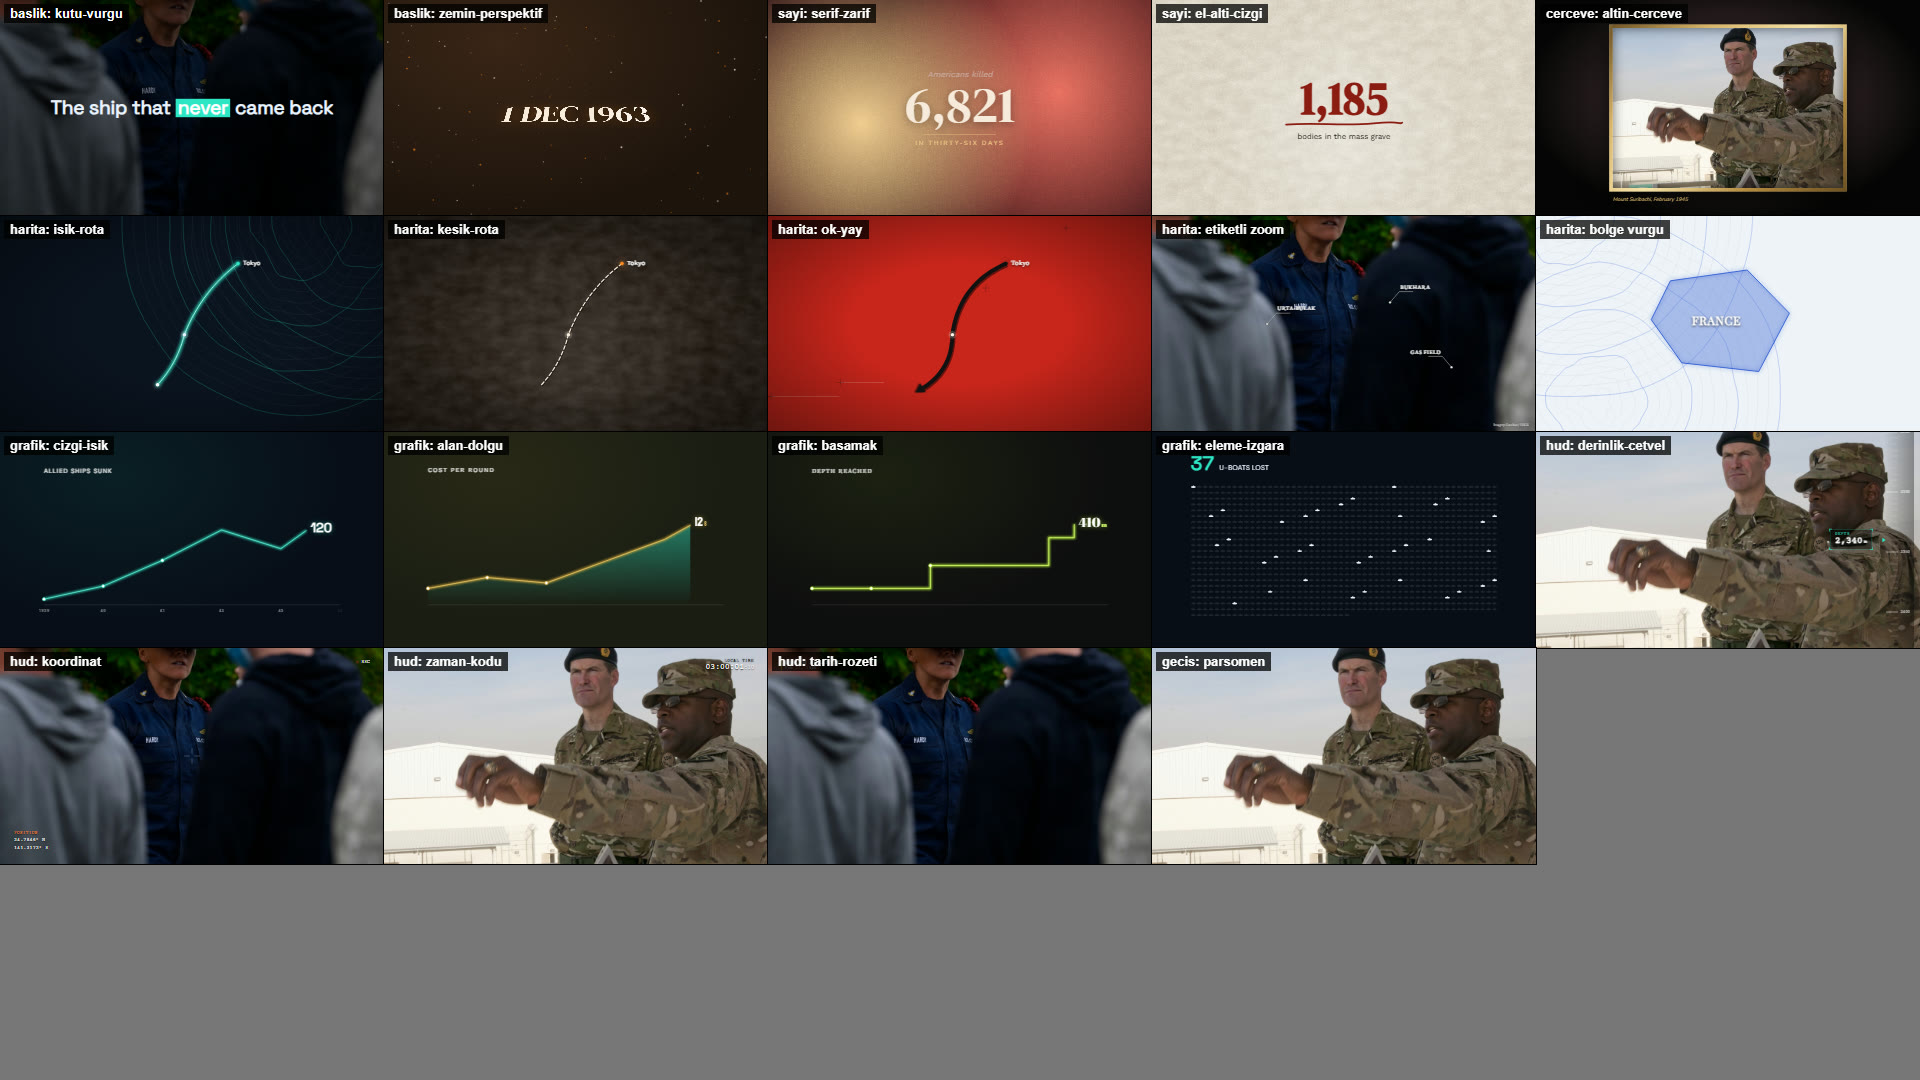
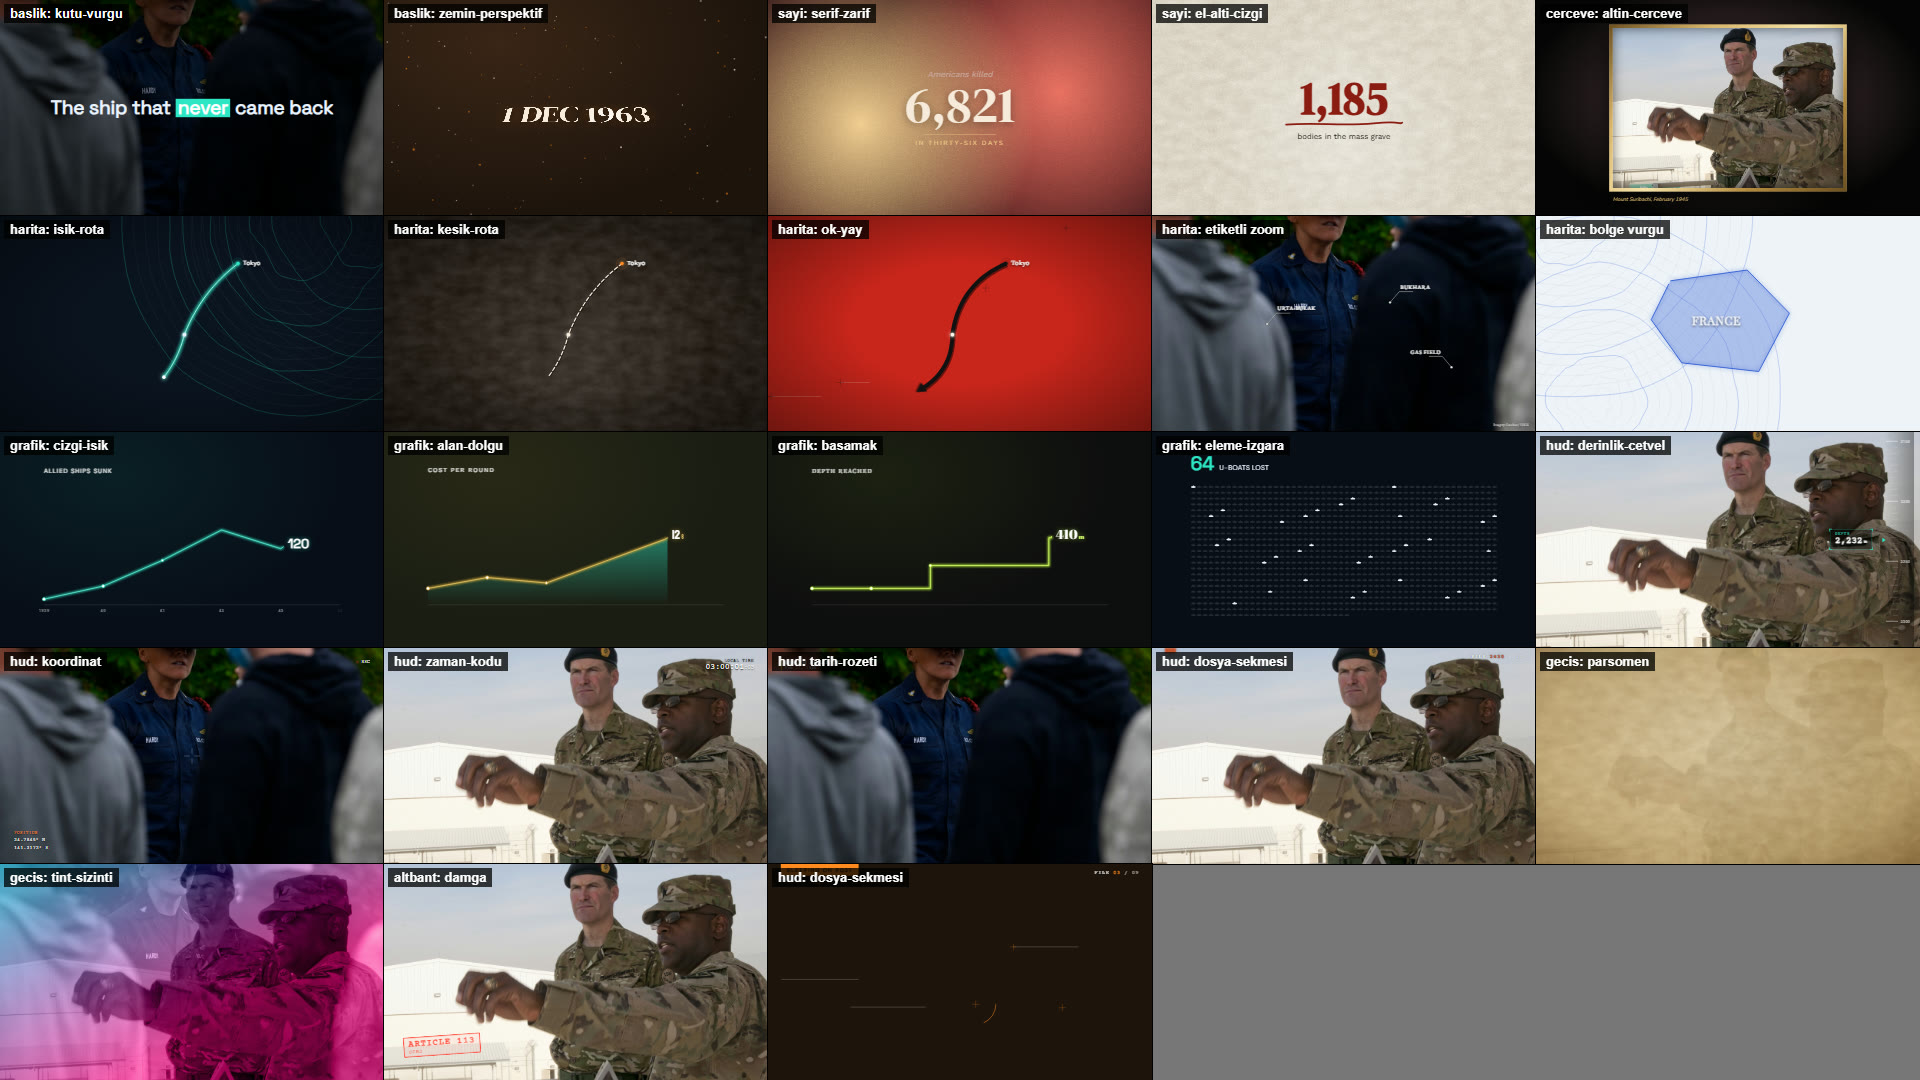
Son 4 kanaldan: tint-sizinti gecis, damga alt bant, dosya-sekmesi HUD; repertuar.md kullanim
Kaynak: @diearbeiterjahreyt, @TactCoreYT (+ @Ethos-j7t, @AchterdeMotorkap mevcut esdegerlere kaynak etiketi)
- repertuar.md: harita/grafik/HUD tablo satirlari, VideoNN ornegi, kanal ekleme akisi (§5)

diff --git a/repertuar/Kart.tsx b/repertuar/Kart.tsx
@@ -6,7 +6,7 @@ import { FONTLAR, Stil, egri, ilerle, karistir, rgba, sinirla } from './temel';
 // stil_dna kanal basina her kart turu icin BIR varyant kilitler (kanal imzasi), rakibinkinden farkli olani.
 
 // ---------- ALT BANT (isim / yer / tarih etiketi) ----------
-export const ALTBANT_TIPLERI = ['cizgi-acilis', 'blok-kayma', 'cip-etiket', 'koseli-parantez', 'cam-panel'] as const;
+export const ALTBANT_TIPLERI = ['cizgi-acilis', 'blok-kayma', 'cip-etiket', 'koseli-parantez', 'cam-panel', 'damga'] as const;
 export type AltBantTip = typeof ALTBANT_TIPLERI[number];
 /** medyaUstu (varsayilan): video/foto ustunde -> acik yazi + golge; false: Arkaplan ustunde -> palet murekkebi */
 export const AltBant: React.FC<{ tip: AltBantTip; ust: string; alt?: string; stil: Stil; sag?: boolean; medyaUstu?: boolean }> = ({ tip, ust, alt, stil, sag, medyaUstu = true }) => {
@@ -51,6 +51,20 @@ export const AltBant: React.FC<{ tip: AltBantTip; ust: string; alt?: string; sti
           <div style={{ position: 'absolute', right: 0, bottom: 0, width: k, height: k, borderRight: c, borderBottom: c, transform: `translate(${(1 - p) * -40}px, ${(1 - p) * -20}px)` }} />
           <div style={{ ...ustSt, fontFamily: font.mono, fontSize: 44, opacity: q }}>{U}</div>
           {alt ? <div style={{ ...altSt, fontFamily: font.mono, opacity: q }}>{alt}</div> : null}
+        </div>
+      );
+    }
+    case 'damga': {
+      // hafif egik kirmizi cerceveli damga (@TactCoreYT): basilir gibi buyukten oturur, kenarda murekkep puruzu
+      const d = ilerle(f, 0, fps * 0.25, 'ustel-sert');
+      const kirmizi = palet.acik ? '#b3261e' : '#ff4b3e';
+      return (
+        <div style={{ ...yer, transform: `rotate(-4deg) scale(${1.6 - 0.6 * d})`, opacity: sinirla(d * 2), transformOrigin: sag ? 'right bottom' : 'left bottom' }}>
+          <div style={{ border: `5px solid ${kirmizi}`, borderRadius: 6, padding: '8px 22px', boxShadow: `inset 0 0 0 2px ${rgba(kirmizi, 0.35)}`, background: rgba(kirmizi, 0.06),
+            WebkitMaskImage: 'radial-gradient(circle at 30% 40%, #000 60%, rgba(0,0,0,.75) 75%, #000 90%)' }}>
+            <div style={{ fontFamily: font.mono, fontWeight: 700, fontSize: 44, letterSpacing: 4, color: kirmizi, textTransform: 'uppercase' }}>{U}</div>
+            {alt ? <div style={{ fontFamily: font.mono, fontSize: 24, letterSpacing: 3, color: kirmizi, opacity: 0.85, textTransform: 'uppercase' }}>{alt}</div> : null}
+          </div>
         </div>
       );
     }

diff --git a/repertuar/Hud.tsx b/repertuar/Hud.tsx
@@ -5,7 +5,7 @@ import { Stil, egri, ilerle, rgba, sinirla } from './temel';
 // HUD — medyanin USTUNE binen kalici bilgi katmanlari (saydam). Ogrenildigi kanallar: @Ground-Engineering (kamerayla senkron
 // derinlik sayaci), @ImmersivePast (sag kenarda derinlik cetveli + sol ustte guncellenen tarih/yer rozeti).
 // Deger animasyonu: baslangic -> deger, 'sure' saniyede (kamera hareketiyle es zamanli kullanilir).
-export const HUD_TIPLERI = ['derinlik-cetvel', 'koordinat', 'zaman-kodu', 'tarih-rozeti'] as const;
+export const HUD_TIPLERI = ['derinlik-cetvel', 'koordinat', 'zaman-kodu', 'tarih-rozeti', 'dosya-sekmesi'] as const;
 export type HudTip = typeof HUD_TIPLERI[number];
 
 const kose = (renk: string, k = 22, c = 3): React.CSSProperties[] => [
@@ -88,6 +88,20 @@ export const Hud: React.FC<{ tip: HudTip; stil: Stil; deger?: number; baslangic?
             <div style={{ color: renk, fontSize: 18, letterSpacing: 4 }}>{(etiket || 'LOCAL TIME').toUpperCase()}</div>
             <div style={{ fontSize: 40 }}>{z(hh)}:{z(mm)}:{z(ss)}<span style={{ opacity: 0.6, fontSize: 28 }}>:{z(kk)}</span></div>
             {ust ? <div style={{ fontSize: 20, opacity: 0.8, marginTop: 4 }}>{ust}</div> : null}
+          </div>
+        </AbsoluteFill>
+      );
+    }
+    case 'dosya-sekmesi': {
+      // ust kenarda vurgu renkli baslik sekmesi + sag ustte 'FILE 03 / 09' sayaci (@TactCoreYT); deger = bu dosya, baslangic = toplam
+      const k = ilerle(f, gec, fps * 0.35, 'ustel-sert');
+      const z = (n: number) => String(Math.max(0, Math.round(n))).padStart(2, '0');
+      return (
+        <AbsoluteFill style={{ pointerEvents: 'none' }}>
+          <div style={{ position: 'absolute', left: 64, top: 0, padding: '14px 28px 12px', background: renk, color: palet.acik ? '#ffffff' : palet.zemin, transform: `translateY(${(k - 1) * 100}%)`,
+            fontFamily: font.govde, fontWeight: 800, fontSize: 28, letterSpacing: 4, textTransform: 'uppercase', borderRadius: '0 0 10px 10px', boxShadow: `0 8px 24px ${rgba('#000', 0.35)}` }}>{etiket}</div>
+          <div style={{ position: 'absolute', right: 64, top: 30, ...yazi, fontSize: 26, letterSpacing: 3, opacity: k }}>
+            FILE <span style={{ color: renk, fontWeight: 700 }}>{z(deger)}</span><span style={{ opacity: 0.6 }}> / {z(baslangic)}</span>
           </div>
         </AbsoluteFill>
       );

diff --git a/repertuar/Gecis.tsx b/repertuar/Gecis.tsx
@@ -6,7 +6,7 @@ import { HareketAd, Stil, egri, rastgele, rgba, sinirla } from './temel';
 // Iskelet kurali: gecis SURESI rakibin yumusak gecis medyanindan, SIKLIGI rakibin yumusak gecis oranindan gelir (stil_dna.py).
 export const GECIS_TIPLERI = [
   'sert', 'cozunme', 'bulaniklik', 'isik-patlamasi', 'glitch-rgb', 'whip-sol', 'whip-yukari', 'kaydirma-itme',
-  'maske-daire', 'maske-capraz', 'maske-seritler', 'zoom-darbe', 'film-yanigi', 'kart-cevirme', 'tv-kapanma', 'perde', 'parsomen',
+  'maske-daire', 'maske-capraz', 'maske-seritler', 'zoom-darbe', 'film-yanigi', 'kart-cevirme', 'tv-kapanma', 'perde', 'parsomen', 'tint-sizinti',
 ] as const;
 /** 'filmburn:fb-03:1.4' = varlik/filmburn/fb-03.mp4, en parlak an 1.4 sn: kesim tam o ana denk gelir */
 export type GecisTip = typeof GECIS_TIPLERI[number] | `filmburn:${string}`;
@@ -63,6 +63,17 @@ const GecisUstKatman: React.FC<{ tip: GecisTip; p: number; stil: Stil }> = ({ ti
       <AbsoluteFill style={{ mixBlendMode: 'screen' }}>
         <div style={{ position: 'absolute', left: -600 + p * (W + 600), top: -200, width: 1100, height: H + 400, borderRadius: '50%', background: `radial-gradient(ellipse, ${rgba('#ffd08a', a)} 0%, ${rgba(stil.palet.vurgu, a * 0.8)} 40%, transparent 70%)`, filter: 'blur(60px)' }} />
         <AbsoluteFill style={{ background: rgba('#ff9a3c', a * 0.25) }} />
+      </AbsoluteFill>
+    );
+  }
+  if (tip === 'tint-sizinti') {
+    // renk tonu rampasi (@diearbeiterjahreyt): kesimde ekran once vurgu2 (soguk), sonra vurgu (sicak) tonuna boyanir, 280 ms
+    const a = Math.sin(p * Math.PI);
+    const renk = p < 0.5 ? stil.palet.vurgu2 : stil.palet.vurgu;
+    return (
+      <AbsoluteFill style={{ mixBlendMode: 'color', opacity: Math.min(1, a * 1.4) }}>
+        <AbsoluteFill style={{ background: `linear-gradient(${120 + p * 60}deg, ${rgba(stil.palet.vurgu2, 0.95)} ${-40 + p * 80}%, ${rgba(stil.palet.vurgu, 0.95)} ${20 + p * 90}%)` }} />
+        <AbsoluteFill style={{ background: rgba(renk, 0.25 * a), mixBlendMode: 'screen' }} />
       </AbsoluteFill>
     );
   }

diff --git a/sablon-proje/src/Root.tsx b/sablon-proje/src/Root.tsx
@@ -90,6 +90,9 @@ const KatYeni: React.FC = () => (
     { ad: 'grafik: eleme-izgara', el: <ElemeIzgara stil={st(12)} asamalar={[1171, 36, 2]} etiketler={['U-boats lost', 'near New Jersey', 'candidates']} ikon="denizalti" asamaSn={1.2} /> },
     ...HUD_TIPLERI.map((h, i) => ({ ad: 'hud: ' + h, el: <AbsoluteFill><Medya m={i % 2 ? A : B} /><Hud tip={h} stil={st(12 + i)} deger={h === 'koordinat' ? 24.7841 : h === 'zaman-kodu' ? 1 : 2430} baslangic={h === 'koordinat' ? 141.3168 : h === 'zaman-kodu' ? 3 * 3600 : 0} birim="m" etiket={h === 'tarih-rozeti' ? 'North Atlantic' : ''} ust={h === 'tarih-rozeti' ? 'Feb 11, 1945' : ''} sure={2} /></AbsoluteFill> })),
     { ad: 'gecis: parsomen', el: <GecisliDizi stil={st(1)} gecis="parsomen" kare={24} sahneler={[{ el: <Medya m={A} />, sure: 40 }, { el: <Medya m={B} />, sure: 40 }]} /> },
+    { ad: 'gecis: tint-sizinti', el: <GecisliDizi stil={st(6)} gecis="tint-sizinti" kare={12} sahneler={[{ el: <Medya m={A} />, sure: 40 }, { el: <Medya m={B} />, sure: 40 }]} /> },
+    { ad: 'altbant: damga', el: <AbsoluteFill><Medya m={B} /><AltBant tip="damga" ust="Article 113" alt="UCMJ" stil={st(12)} /></AbsoluteFill> },
+    { ad: 'hud: dosya-sekmesi', el: <AbsoluteFill><Arkaplan tip="blueprint" stil={st(13)} /><Hud tip="dosya-sekmesi" stil={st(13)} etiket="Sleeping on post" deger={3} baslangic={9} /></AbsoluteFill> },
   ]} />
 );
 const KatPreset: React.FC = () => {

diff --git a/skill/youtube-video-uretim/references/repertuar.md b/skill/youtube-video-uretim/references/repertuar.md
@@ -21,6 +21,9 @@ eksik teknik repertuara eklenir (bkz. §5).
 | Medya | `Medya.tsx` | kamera 10 (KB iç/dış, pan ×3, el kamerası, zoom darbe, dolly eğik, paralaks), çerçeve 11 (tam, inset gölge, bulanık kopya, polaroid, TV-CRT, letterbox, pencere, film şeridi, bölünmüş, kolaj, yuvarlak), doku 9 |
 | Stil | `temel.ts` | 16 palet (`gece-kirmizi` klasik, seçilmez), 12 font çifti, 7 hareket eğrisi |
 | **Bitiş (AE görünümü)** | `Bitis.tsx` | 6 post-prodüksiyon katmanı (sinema-film, temiz-dijital, arsiv-proje, neon-parilti, sicak-hale, soguk-belgesel): kamera nefesi (wiggle), kalkık siyahlar + split-tone grade, kayan ışık cepleri, gren, titreme, projektör sallantısı, bölüm geçişinde ışık süzülmesi. **Her video `DnaBitis` ile sarılır** — ham Remotion çıktısı "kod" gibi görünür |
+| Harita | `Harita.tsx` | rota 3 (isik-rota, kesik-rota, ok-yay) — `DnaHarita`; kılavuz etiketli zoom `DnaEtiketliHarita`; bölge/ülke vurgusu `DnaBolge`. Zemin: CC harita/uydu görseli (`zemin`), yoksa DNA'nın 3. arka planı. Koordinatlar ekran oranı (0..1) |
+| Grafik | `Grafik.tsx` | çizgi grafik 3 (cizgi-isik, alan-dolgu, basamak) — `DnaGrafik`; eleme ızgarası (1.171 → 36 → 2) `DnaEleme` |
+| HUD | `Hud.tsx` | medya üstü kalıcı katman 4 (derinlik-cetvel, koordinat, zaman-kodu, tarih-rozeti) — `DnaHud`; değer kamera hareketiyle eş zamanlı akar |
 | Öğrenilmiş | `Preset.tsx` | Premiere presetlerinden zoom / shake / slide / whip / blur-in (338) — `varlik-paketleri.md` |
 
 ## 3. Akış
@@ -75,8 +78,18 @@ export const Video04 = () => (<><FontYukle /><DnaBitis dna={dna} anlar={[0, 2710
 - `DnaDizi` geçişleri DNA'dan, süreyi (`gecis_kare`) ve sertlik oranını (`yumusak_oran`) rakipten alır.
 - `DnaVurgu` yalnız vurgulanan kelimede/cümlede (metindeki `*kelime*` işaretleri) kullanılır; dakikada en çok ~2.
 - SFX: `iskelet.sfx_orani` > 0,5 ise geçişlere whoosh, vurgulara hit (`sfx.md`, `varlik/sfx/sfx-katalog.json`).
+- Harita / grafik / HUD (metinde yer, rota, sayı dizisi, derinlik, tarih geçtiğinde — stok görüntü yerine):
+  ```tsx
+  { sure: 150, el: <DnaHarita dna={dna} zemin={{ src: 'v04/harita/pasifik.jpg' }} noktalar={[{ x: .62, y: .22, ad: 'Tokyo' }, { x: .4, y: .8, ad: 'Iwo Jima' }]} etiket="750 mi" /> },
+  { sure: 120, el: <DnaGrafik dna={dna} veriler={[12, 40, 95, 160]} etiketler={['1939', '40', '41', '42']} baslik="Allied ships sunk" /> },
+  { sure: 90, el: <><DnaMedya dna={dna} m={{ src: 'v04/klip/dalis.mp4', video: true }} sira={5} /><DnaHud dna={dna} tip="derinlik-cetvel" deger={73} birim="m" sure={3} /></> },
+  ```
+  `DnaHud tip="tarih-rozeti"` bölüm boyunca kalıcı (etiket = yer, ust = tarih); bölüm değişince yeni değerle yeniden girer.
 
 ## 5. Repertuarı büyütmek (her yeni kanal bir şey ekler)
+Kanal ekleme akışı (2026-11-24'te 10 kanalla yapıldı): `kanal_isle.py --liste <liste> --adet 1` (yalnız en popüler video; indirilenler analizden sonra silinir) →
+alt model (Sonnet) her kanal için EDIT-DILI.md + `teknikler/` gözlemleri + **teknik envanteri** (JSON: eksen, tarif, repertuarda var mı, etiket önerisi, öncelik) yazar →
+ana model öncelik ≥2 ve repertuarda olmayan teknikleri bileşen olarak kodlar, `etiketler.json`'a `kaynak` ile ekler, katalogda gözle kontrol eder → commit + push (hook Drive aynasını günceller).
 - Rakipte gözle gördüğün ama repertuarda olmayan tekniği koda dök: ilgili dosyaya bileşen + `*_TIPLERI`'ne ad ekle.
 - `sablon-proje`'de katalog kompozisyonunu render et (`KatArkaplan`, `KatEdit`, `KatGecis`, `KatBaslik`, `KatYazi2`, `KatKart`, `KatCerceve`), sayfayı **gözle** kontrol et: okunurluk (açık palet + koyu zemin çakışması), taşma, kesilme.
 - Bileşen palet/font/hareket dışında sabit renk/font/easing kullanmaz (yeni klasik görünüm doğmasın).
